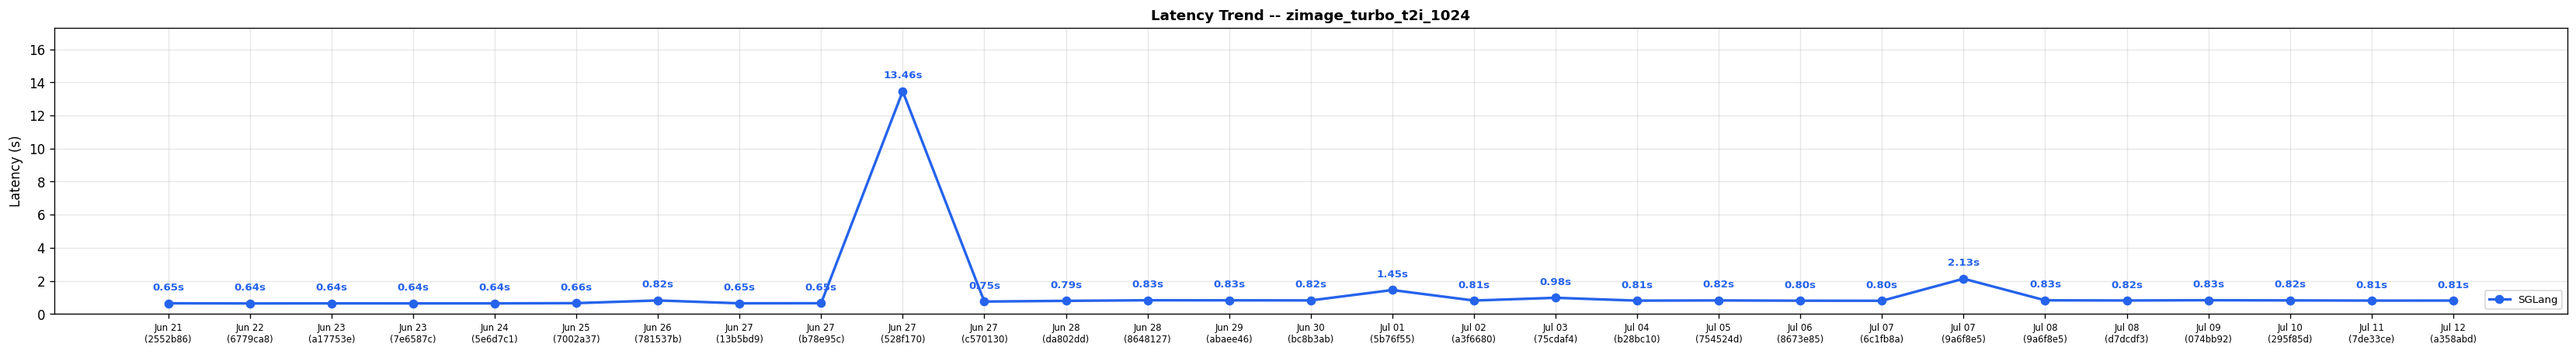
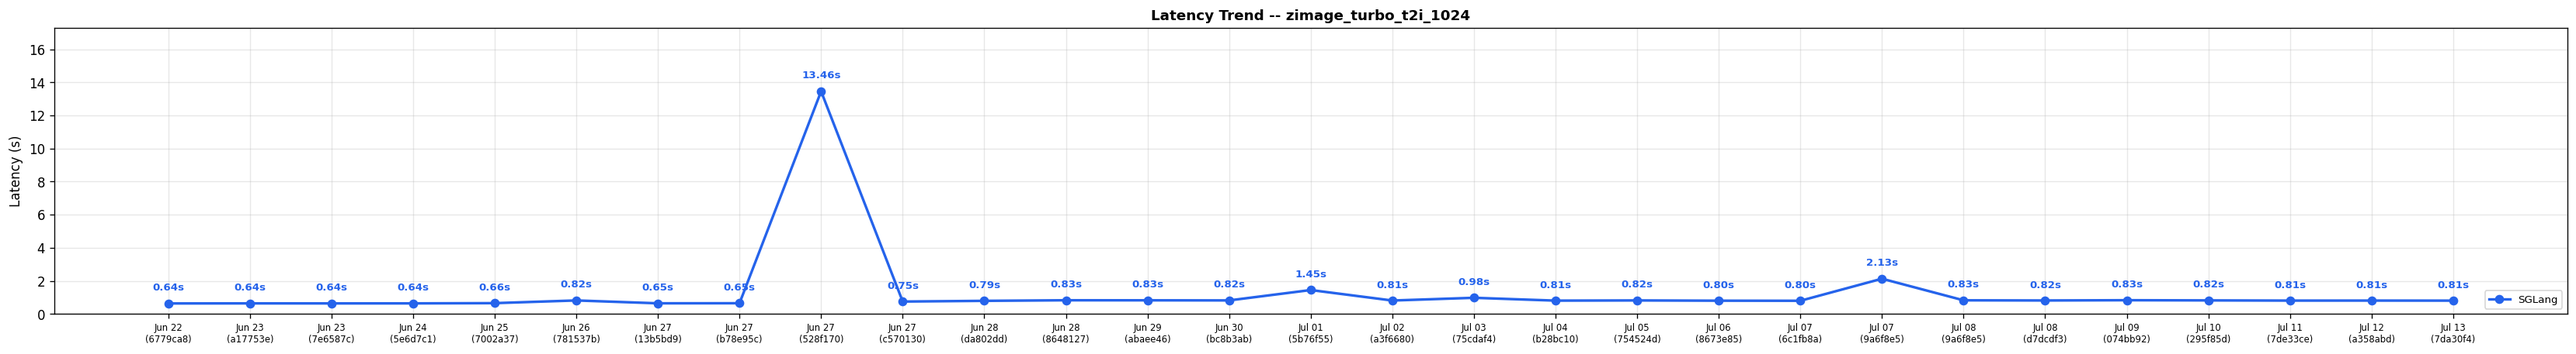
Diffusion comparison results for run 29216018591 (#714)

diff --git a/diffusion-comparisons/dashboard.md b/diffusion-comparisons/dashboard.md
@@ -1,22 +1,22 @@
 # SGLang-Diffusion Nightly Performance Dashboard
 
-*Generated: Jul 12 | Commit: `a358abd`*
+*Generated: Jul 13 | Commit: `7da30f4`*
 
 ## SGLang-Diffusion Performance
 
 | Model | Risk | sglang (s) |
 |-------|------|---------|
-| FLUX.1-dev | ✅ | **4.84** |
-| FLUX.2-dev | ✅ | **14.35** |
-| Qwen-Image-2512 | ✅ | **8.75** |
-| Qwen-Image-Edit-2511 | ✅ | **15.28** |
+| FLUX.1-dev | ✅ | **4.83** |
+| FLUX.2-dev | ✅ | **14.38** |
+| Qwen-Image-2512 | ✅ | **8.77** |
+| Qwen-Image-Edit-2511 | ✅ | **15.27** |
 | Z-Image-Turbo | ✅ | **0.81** |
-| Wan2.2-T2V-A14B-Diffusers | ✅ | **209.68** |
-| Wan2.2-TI2V-5B-Diffusers | ✅ | **64.18** |
-| LTX-2.3 | ✅ | **13.06** |
-| ideogram-4-fp8 | ✅ | **5.32** |
-| Cosmos3-Super | ✅ | **114.39** |
-| Wan2.2-I2V-A14B-Diffusers | ✅ | **203.71** |
+| Wan2.2-T2V-A14B-Diffusers | ✅ | **209.59** |
+| Wan2.2-TI2V-5B-Diffusers | ✅ | **64.19** |
+| LTX-2.3 | ✅ | **13.05** |
+| ideogram-4-fp8 | ✅ | **5.31** |
+| Cosmos3-Super | ✅ | **115.36** |
+| Wan2.2-I2V-A14B-Diffusers | ✅ | **204.64** |
 
 ### Latency Trend: flux1_dev_t2i_1024
 
@@ -77,6 +77,7 @@
 
 | Date | Commit | flux1_dev_t2i_1024 (s) | flux2_dev_t2i_1024 (s) | qwen_image_2512_t2i_1024 (s) | qwen_image_edit_2511 (s) | zimage_turbo_t2i_1024 (s) | wan22_t2v_a14b_720p (s) | wan22_ti2v_5b_720p (s) | ltx2.3_twostage_ti2v_2gpus (s) | ideogram4_fp8_t2i_2gpu (s) | cosmos3_super_t2v_2gpu (s) | wan22_i2v_a14b_720p (s) | Trend |
 |------|--------|---------|---------|---------|---------|---------|---------|---------|---------|---------|---------|---------|-------|
+| Jul 13 | `7da30f4` | 4.83 | 14.38 | 8.77 | 15.27 | 0.81 | 209.59 | 64.19 | 13.05 | 5.31 | 115.36 | 204.64 | :left_right_arrow:  :left_right_arrow:  :left_right_arrow:  :left_right_arrow:  :left_right_arrow:  :left_right_arrow:  :left_right_arrow:  :left_right_arrow:  :left_right_arrow:  :left_right_arrow:  :left_right_arrow: |
 | Jul 12 | `a358abd` | 4.84 | 14.35 | 8.75 | 15.28 | 0.81 | 209.68 | 64.18 | 13.06 | 5.32 | 114.39 | 203.71 | :left_right_arrow:  :left_right_arrow:  :left_right_arrow:  :left_right_arrow:  :left_right_arrow:  :left_right_arrow:  :left_right_arrow:  :left_right_arrow:  :left_right_arrow:  :arrow_down:  :left_right_arrow: |
 | Jul 11 | `7de33ce` | 4.85 | 14.49 | 8.81 | 15.38 | 0.81 | 210.63 | 65.23 | 13.06 | 5.34 | 118.39 | 204.69 | :left_right_arrow:  :left_right_arrow:  :left_right_arrow:  :left_right_arrow:  :left_right_arrow:  :left_right_arrow:  :left_right_arrow:  :left_right_arrow:  :left_right_arrow:  :arrow_down:  :left_right_arrow: |
 | Jul 10 | `295f85d` | 4.88 | 14.46 | 8.98 | 15.44 | 0.82 | 210.72 | 65.23 | 13.05 | 5.38 | 128.45 | 205.69 | :left_right_arrow:  :left_right_arrow:  :arrow_down:  :left_right_arrow:  :left_right_arrow:  :left_right_arrow:  :left_right_arrow:  :arrow_down:  :left_right_arrow:  :arrow_up:  :left_right_arrow: |
@@ -105,8 +106,7 @@
 | Jun 24 | `5e6d7c1` | 4.68 | 14.36 | 12.82 | 23.75 | 0.64 | 209.73 | 65.22 | 14.06 | N/A | N/A | 205.65 | :left_right_arrow:  :left_right_arrow:  :left_right_arrow:  :left_right_arrow:  :left_right_arrow:  :left_right_arrow:  :left_right_arrow:  :left_right_arrow:    :left_right_arrow: |
 | Jun 23 | `7e6587c` | 4.68 | 14.35 | 12.84 | 23.79 | 0.64 | 209.91 | 65.20 | 14.05 | N/A | N/A | 205.65 | :left_right_arrow:  :left_right_arrow:  :left_right_arrow:  :left_right_arrow:  :left_right_arrow:  :left_right_arrow:  :left_right_arrow:  :left_right_arrow:    :left_right_arrow: |
 | Jun 23 | `a17753e` | 4.68 | 14.34 | 12.80 | 23.72 | 0.64 | 211.07 | 65.22 | 14.05 | N/A | N/A | 205.68 | :left_right_arrow:  :left_right_arrow:  :left_right_arrow:  :left_right_arrow:  :left_right_arrow:  :left_right_arrow:  :left_right_arrow:  :left_right_arrow:    :left_right_arrow: |
-| Jun 22 | `6779ca8` | 4.65 | 14.37 | 12.83 | 23.76 | 0.64 | 209.96 | 65.23 | 14.05 | N/A | N/A | 205.58 | :left_right_arrow:  :left_right_arrow:  :left_right_arrow:  :left_right_arrow:  :left_right_arrow:  :left_right_arrow:  :left_right_arrow:  :arrow_down:    :left_right_arrow: |
-| Jun 21 | `2552b86` | 4.67 | 14.33 | 12.74 | 23.63 | 0.65 | 209.38 | 64.15 | 19.07 | N/A | N/A | 204.55 | -- |
+| Jun 22 | `6779ca8` | 4.65 | 14.37 | 12.83 | 23.76 | 0.64 | 209.96 | 65.23 | 14.05 | N/A | N/A | 205.58 | -- |
 
 ---
 *Generated by `generate_diffusion_dashboard.py` in SGLang nightly CI.*
